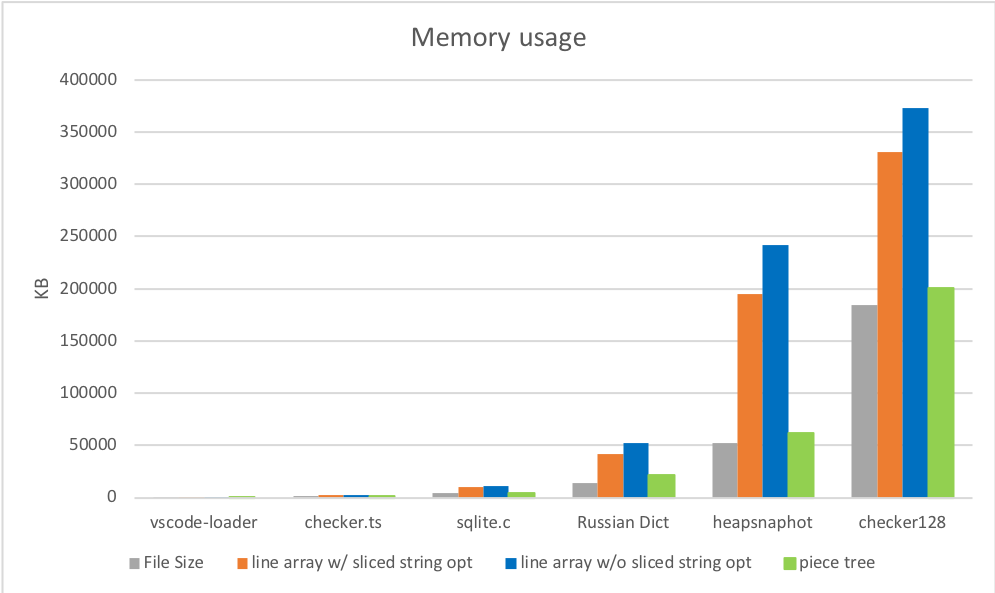
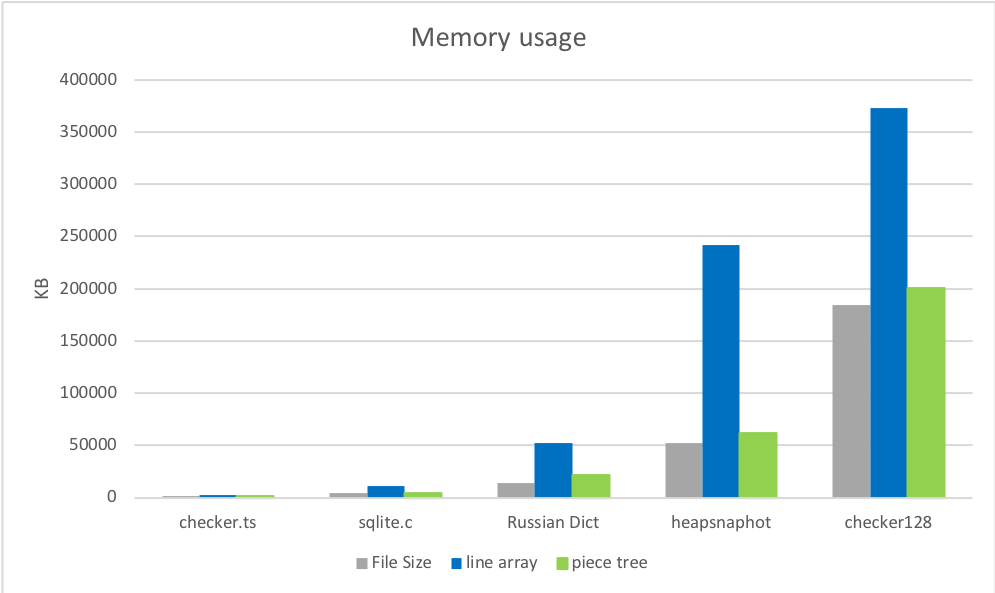
Remove sliced string opt part and merge images.

diff --git a/blogs/2018/02/text-buffer-reimplementation.md b/blogs/2018/02/text-buffer-reimplementation.md
@@ -31,7 +31,7 @@ The lines array representation takes a lot of time to create and then consumes a
 ### Piece Table
 
 <center>
-<img src="./traditional-piece-table.gif" alt="Tradition Piece Table">
+<img src="./traditional-piece-table.gif" alt="Tradition Piece Table" style="width: 800px;">
 </center>
 
 ```ts
@@ -172,7 +172,7 @@ class Node {
 ```
 
 <center>
-<img src="./piece-tree.gif" alt="Piece Tree">
+<img src="./piece-tree.gif" alt="Piece Tree" style="width: 800px">
 </center>
 
 
@@ -182,21 +182,10 @@ I'd love to call this text buffer *Multiple buffer piece table with red black tr
 
 Having a theoretical understanding of this data structure is one thing, real world performance is another. The language you use, the environment the code runs on, the way others invoke your API and a lot others may affect the result significantly. We should run some benchmarks on small/medium/large files against original Line Array and piece tree.
 
-~~One thing to note here is in July 2017, we had a huge [memory usage improvements](https://github.com/Microsoft/vscode/issues/30180#issuecomment-313509308) for Line Array, among which *avoid sliced string* is an interesting one. If we do some profiling with file opening in VSCode 1.19~~
-
-<!--
-<center>
-<img src="./linebuffer-builder.png" style="width: 800px" alt="line buffer model building">
-</center>
--->
-
-~~You can see that `Buffer.toString/Buffer.write` takes the majority of time. This was used to avoid sliced string ref on each split string, it saves quite a lot memory when the file has a lot of lines. The side effect is obvious though, it slows down the file opening. It's a classic speed/memory tradeoff. Last month, we disabled sliced string optimization but here I want to run benchmarks against both of them to make sure we don't lose opportunities to improve.~~
-
 ### Preparations
 
 I try to do benchmarks against some realistic files we can find online
 
-* [vscode-loader](https://github.com/Microsoft/vscode/blob/master/src/vs/loader.js), 77KB, 1682 lines.
 * [checker.ts](https://github.com/Microsoft/TypeScript/blob/master/src/compiler/checker.ts) 1.46 MB, 26k lines.
 * [sqlite.c](https://github.com/kripken/emscripten/blob/master/tests/sqlite/sqlite3.c)  4.31MB, 128k lines.
 * [Russian English Bilingual dictionary](https://github.com/titoBouzout/Dictionaries/blob/master/Russian-English%20Bilingual.dic) 14MB, 552k lines
@@ -208,17 +197,13 @@ and some manually created large files
 
 ### 1. Memory usage
 
-**TODO@Peng**: Don't complicate needlesly. Have a color for BEFORE, a color for AFTER, and a color for file size. Use the same color for BEFORE and for AFTER in all graphs! Also, don't use line graphs. The X axis is not a continuous axis, like time; It is discrete, so you should not draw lines between measurements, maybe you can use bar charts.
-
 Here we didn't compare heap size as for small files we'll do tokenization and have multiple copies of the buffer (worker, etc) while we stop doing that for large files, so we just check the memory usage of text buffer.
 
 <center>
 <img src="./memoryusage.png" style="width: 800px" alt="Memory Usage">
 </center>
 
-As we can see from above, whether to do sliced string optimization in Line Array is a difficult decision to make. `sliced string` uses more memory (proportional to line count), but reducing the memory takes time. Piece Tree doesn't have this trouble as there is no string splitting.
-
-First round, Piece Tree wins.
+As we can see from above, the memory usage of Piece Tree after file loading is close to the file size, which meets our expectation. First round, Piece Tree wins.
 
 ### 2. File opening
 
@@ -226,13 +211,7 @@ First round, Piece Tree wins.
 <img src="./fileopen.png" style="width: 800px" alt="File Opening">
 </center>
 
-Fun facts here:
-* For Line Array, if we don't do sliced string optimization, most time is spent in splitting string into arrays.
-* For Line Array, if we do sliced string optimization, the model building time almost doubles when the file size grows.
-* For Piece Tree, most time is spent in finding offsets of line breaks.
-* Checking charCode is cheaper than splitting.
-
-Once the file is opened, we don't need to worry the sliced string problem, so in following benchmarks, we only compare Line Model w/o sliced string opt and Piece Tree.
+The lesson we learnt here is finding offsets of line breaks is a cheaper operation than splitting string into an array, as the former doesn't involve unnecessary object creation.
 
 ### 3. Writing
 For now I don't have concrete data of users' behaviors while using the editor, but there are still two typical user workflows I'm familiar with
@@ -240,24 +219,16 @@ For now I don't have concrete data of users' behaviors while using the editor, b
 * Jumping around in the document, and make edits. For instance, changing function signature.
 * Typing in sequence. It's not often but I do enter zen mode sometimes when writing blogs.
 
-So here I try to mimic these two scenarios. Apply 1000 random edits and 1000 sequential inserts to the document, and see how much time every text buffer needs. Besides, we apply edits one by one to avoid bulk edits optimization by purpose.
-
-*1000 random edits*
+So here I try to mimic these two scenarios. Apply 1000 random edits or 1000 sequential inserts to the document, then see how much time every text buffer needs. Besides, we apply edits one by one to avoid bulk edits optimization by purpose.
 
 <center>
-<img src="./randomedits.png" style="width: 800px" alt="Random Edits">
-</center>
-
-*1000 sequential inserts*
-
-<center>
-<img src="./seqinserts.png" style="width: 800px" alt="Sequential Inserts">
+<img src="./write.png" style="width: 800px" alt="Random Edits">
 </center>
 
 Line Array wins when the file size small (KBs), this is as expected: accessing a random position in a small array and tweaking a string which has around 100~150 characters is really fast. It starts to choke when the file as a lot of lines (100k+), you may think the array size should not affect the performance but actually it does as array of objects are usually not sitting in a linear memory space.
 
 <center>
-<img src="https://user-images.githubusercontent.com/876920/35373582-f8ca4ea0-0153-11e8-9859-6a2edd0aa57c.png" style="width: 800px" alt="Sequential Inserts">
+<img src="https://user-images.githubusercontent.com/876920/35373582-f8ca4ea0-0153-11e8-9859-6a2edd0aa57c.png" style="width: 600px" alt="Sequential Inserts">
 </center>
 
 Sequential inserts in large files makes this situation worse as JavaScript engine does heavy lifting when resizing the super large array. Piece Tree behaves stably in these Mega bytes files as each edit is just a string append and a couple RBTree operations.
@@ -276,19 +247,7 @@ firstChar = lastChar - firstChar;
 ```
 
 <center>
-<img src="./readalllinesrandom.png" style="width: 800px" alt="Read all lines after random edits">
-</center>
-
-<center>
-<img src="./readalllinesseq.png" style="width: 800px" alt="Read all lines after sequential inserts">
-</center>
-
-<center>
-<img src="./read10random.png" style="width: 800px" alt="Read 10 windows after random edits">
-</center>
-
-<center>
-<img src="./read10seq.png" style="width: 800px" alt="Read 10 windows after 10 sequential inserts">
+<img src="./read.png" style="width: 800px" alt="Read all lines after random edits">
 </center>
 
 
